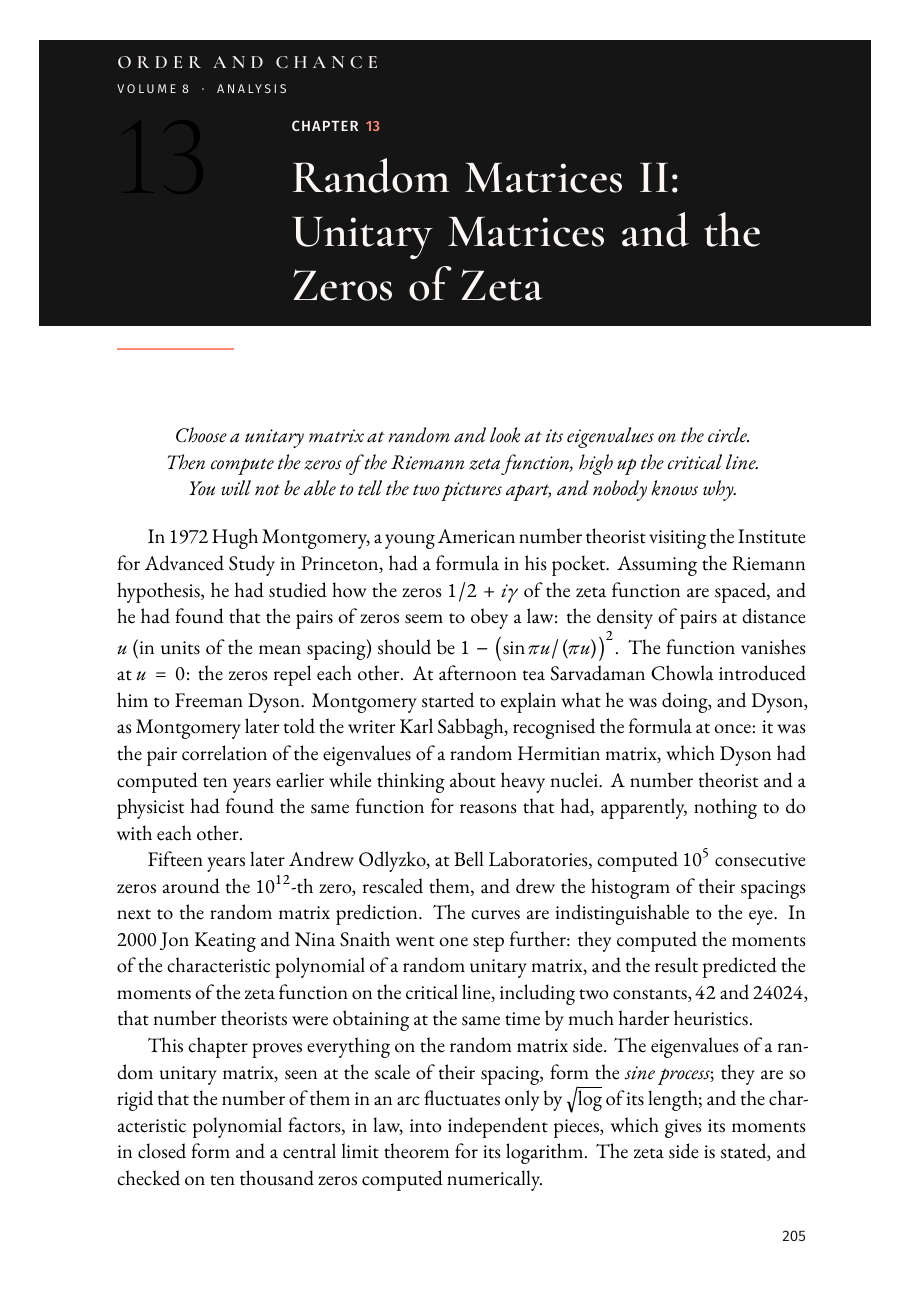
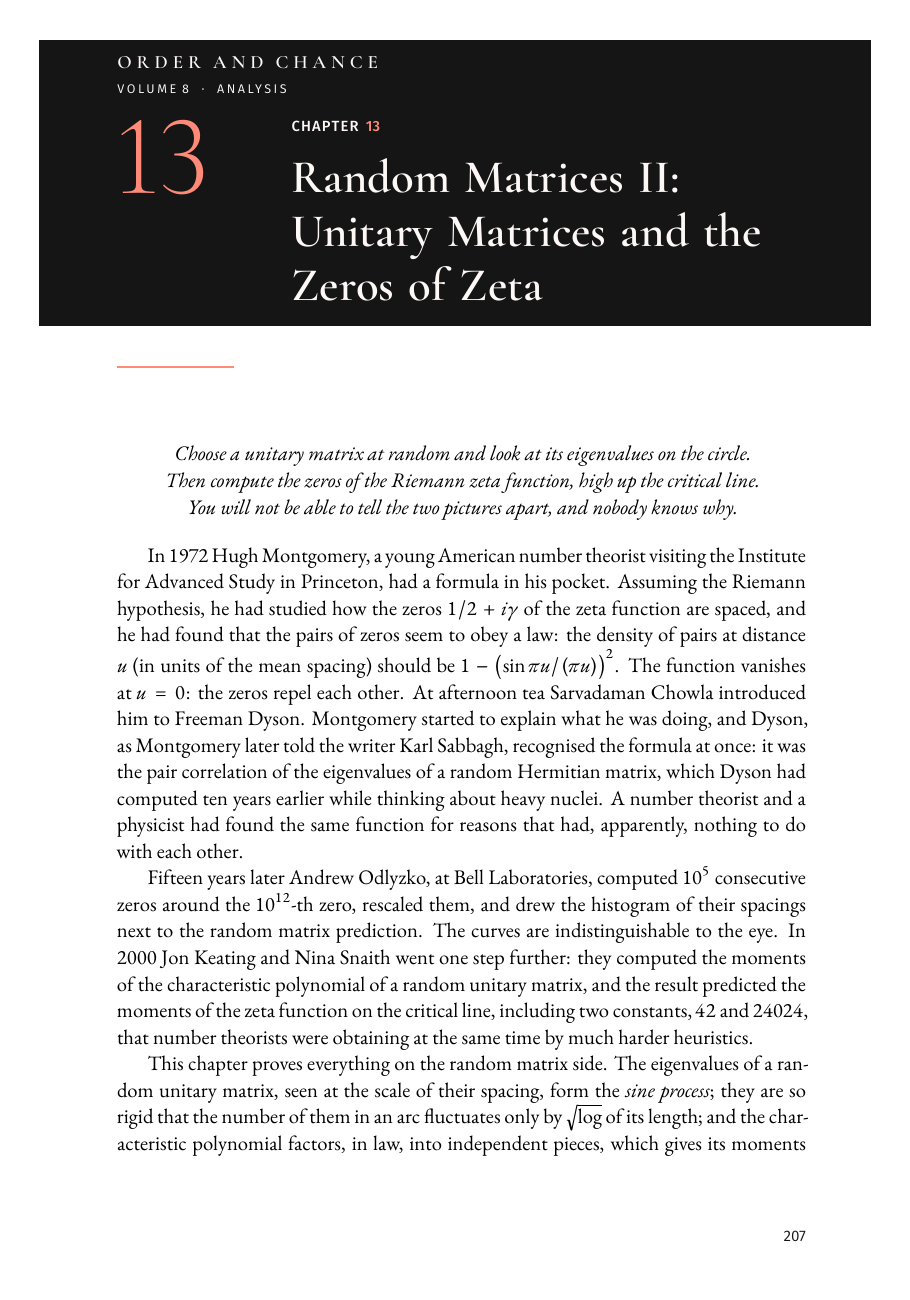
Colour the chapter numeral coral and reset the opening italic
The large numeral was saved without a colour, so it printed black on the charcoal. It is now the same coral as the rule, and the title stays cream. The opening italic is a touch larger, on a narrower measure, with a thin coral bar, and it wraps inside the text block.

diff --git a/tools/epub.css b/tools/epub.css
@@ -69,8 +69,10 @@ h1.oc-chapter > .header-section-number::before { content: "Chapter\00A0";
   text-transform: uppercase; color: #fdf8f5; vertical-align: .55em; }
 h1.oc-chapter > .header-section-number::after, h1.oc-part > .header-section-number::after { content: none; }
 .oc-opener { background-color: transparent; color: inherit; margin: 0 0 1.6em; padding: 0; }
-.oc-epigraph { font-style: italic; font-size: .95em; text-align: left; margin: 0 0 1em; }
-.oc-epigraph p { margin: .3em 0; }
+.oc-epigraph { font-style: italic; font-size: 1.06em; line-height: 1.5; text-align: left;
+  max-width: 78%; margin: 0.85em 0 1.35em; padding: 0.1em 0 0.1em 0.85em;
+  border-left: 1.5pt solid #ff8a78; }
+.oc-epigraph p { margin: .4em 0; }
 .oc-motif { display: none; }
 
 /* Formal family: 8% charcoal tint under a 1.2 pt coral rule, never split, upright statement. */

diff --git a/tools/reader.css b/tools/reader.css
@@ -137,8 +137,10 @@ h1.oc-chapter > .header-section-number::before { content: "Chapter\00A0";
 h1.oc-chapter > .header-section-number::after, h1.oc-part > .header-section-number::after { content: none; }
 h1.oc-chapter::after, h1.oc-part::after { width: 48px; margin-top: 10px; }
 .oc-opener { background: none; color: var(--ink); margin: 0 0 1.8em; padding: 0; }
-.oc-epigraph { font-style: italic; color: var(--muted, var(--ink)); max-width: 30em; }
-.oc-epigraph p { margin: .3em 0; }
+.oc-epigraph { font-style: italic; font-size: 1.06em; line-height: 1.5; color: var(--ink);
+  max-width: 78%; margin: 0.9em 0 1.4em; padding: 0.1em 0 0.1em 0.85em;
+  border-left: 1.5pt solid var(--coral); }
+.oc-epigraph p { margin: .4em 0; }
 .oc-motif { display: none; }
 
 /* Mathematics: long displays scroll sideways instead of overflowing the screen */

diff --git a/common/chapter-opener.tex b/common/chapter-opener.tex
@@ -67,7 +67,9 @@
     \setlength{\oc@hang}{\dimexpr\ocOuter-\oc@bandInset\relax}%
   \fi
   \setlength{\oc@titleW}{\dimexpr\linewidth-\oc@numW-0.20in\relax}%
-  \sbox{\oc@ch@num}{\ocNumeral\fontsize{64}{64}\selectfont\thechapter}%
+  % Colour goes inside the box. A colour set on the tikz node does not reach a saved box,
+  % and the numeral was coming out black on the charcoal.
+  \sbox{\oc@ch@num}{{\color{ocCoral}\ocNumeral\fontsize{64}{64}\selectfont\thechapter}}%
   \setbox\oc@ch@lock=\vbox{%
     \topskip=0pt \parskip=0pt \parindent=0pt
     \hsize=\oc@titleW
@@ -102,19 +104,31 @@
       \node[anchor=north west,inner sep=0pt] at (\oc@hang+\oc@numW+0.16in,\oc@bandH-0.62in)
         {\usebox\oc@ch@lock};
     \end{tikzpicture}}}
-% Coral rule and epigraph on the paper directly under the band; the body follows.
+% Coral rule, then the opening italic on a narrower measure with a thin coral bar.
+% The bar and the text together are 78 percent of the text width, so a long line
+% wraps instead of running into the margin. The italic is a touch above body size.
 \newcommand{\oc@flow@after}{%
   \nointerlineskip
-  \vskip 12pt
+  \vskip 13pt
   \vbox{%
     \hsize=\linewidth
-    \everypar{}%
     \parindent=0pt
     \noindent\ocChapterRule\par
     \ifx\oc@ch@epi\@empty\else
-      \vspace{9pt}%
-      {\small\itshape\color{ocBlack}\raggedright\hyphenpenalty10000\exhyphenpenalty10000
-        \let\\\newline \oc@ch@epi\par}%
+      \vspace{15pt}%
+      \noindent\hbox{%
+        {\color{ocCoral}\vrule width 1.4pt}%
+        \hspace{11pt}%
+        \vbox{%
+          \hsize=\dimexpr0.78\linewidth-1.4pt-11pt\relax
+          \parindent=0pt
+          \itshape\fontsize{12.5}{17.5}\selectfont\color{ocBlack}%
+          \raggedright
+          \hyphenpenalty=4000
+          \exhyphenpenalty=4000
+          \emergencystretch=2em
+          \let\\\newline
+          \oc@ch@epi}}\par
     \fi}}
 % Numbered chapter heading: plain page (no running head), band, then rule and epigraph.
 % \ocChapterHead is the titlesec before-code; #1 is the title that follows it.

diff --git a/docs/DESIGN.md b/docs/DESIGN.md
@@ -3,8 +3,9 @@
 Numbered chapters no longer spend a page on the band alone. `common/chapter-opener.tex`
 draws a compact charcoal band 0.30 in inside the trim. The band holds the masthead,
 the volume line, the 64 pt coral numeral and the cream Cormorant title (`CHAPTER n`
-beside the numeral). A two-line title stays inside the charcoal. The coral rule and
-the epigraph sit on the paper under the band. The prose starts on that same page, and
+beside the numeral). A two-line title stays inside the charcoal. The coral rule sits
+on the paper under the band. The epigraph is a larger italic, on 78 percent of the
+measure, with a thin coral bar at its left. The prose starts on that same page, and
 the next page does not repeat the heading. The first page is plain: folio at the foot, no running head.
 Chapters still start on a new page, on whichever side comes next, so a part page is
 not followed by a blank. Unnumbered chapters keep the short heading. Part pages are

diff --git a/docs/design/interior.md b/docs/design/interior.md
@@ -67,8 +67,10 @@ The opener is a compact block at the top of that page:
   Cormorant Light on the left, and on the right `CHAPTER n` (Fira, cream, numeral in
   coral) with the cream Cormorant title at 26/30 pt. A two-line or three-line title
   stays inside the charcoal;
-- under the band, on the white paper: a 0.9 in coral rule, then the epigraph in
-  charcoal italic.
+- under the band, on the white paper: a 0.9 in coral rule, then the epigraph.
+  The epigraph is italic at 12.5/17.5 pt, a touch above the body, on 78 percent of
+  the measure, with a 1.4 pt coral bar on its left. Inline mathematics stays at
+  that size. The bar and the text stay inside the text block.
 
 The body follows the epigraph. There is no second heading on the next page. Unnumbered
 chapters (preface, field guide, About the Cover, solutions, index, bibliography) have
